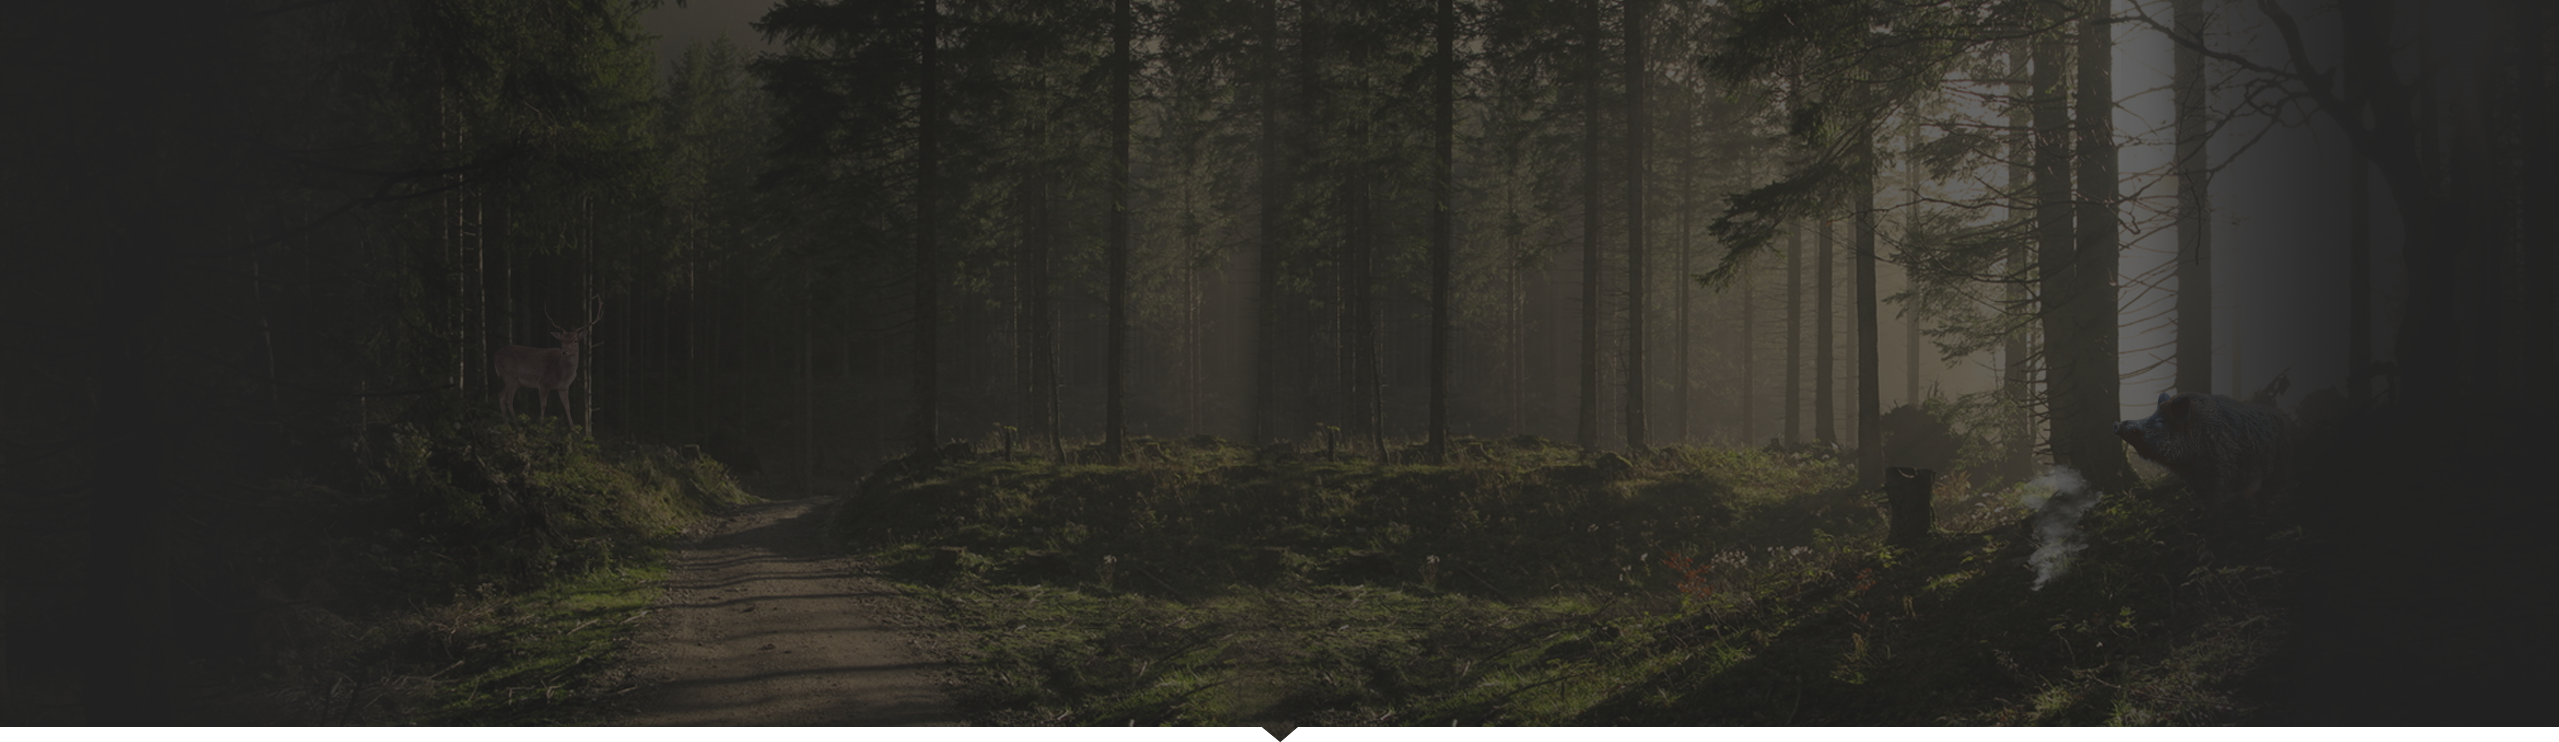
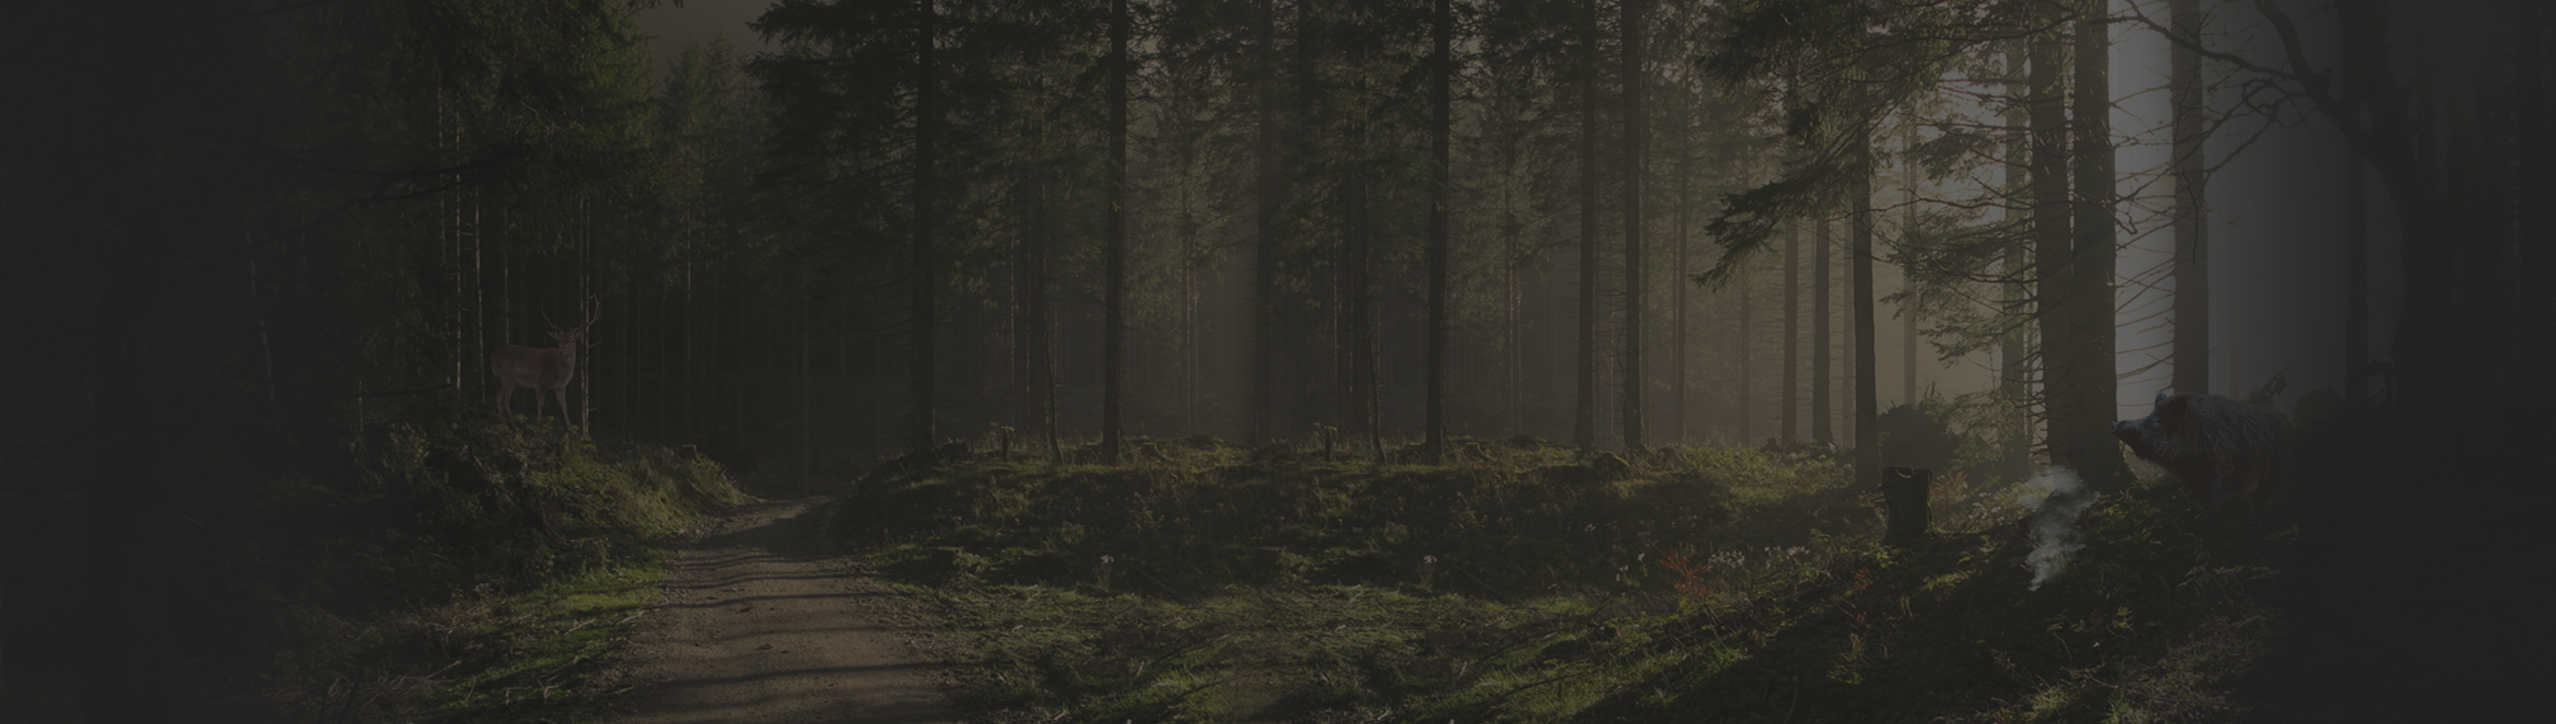
first

diff --git a/source/style/common/a__header.scss b/source/style/common/a__header.scss
@@ -1,6 +1,16 @@
 .header{
   padding: 38px 0 92px;
   background: url("../img/header_bng.png") no-repeat center / cover;
+  position: relative;
+  &:after{
+    background: url(../img/header__arrow.png) no-repeat;
+    width: 34px;
+    height: 16px;
+    content: '';
+    position: absolute;
+    bottom: -15px;
+    left: 50%;
+  }
 }
 
 .header__block{
@@ -106,16 +116,120 @@
     }
   }
 }
+@media screen and (max-width: 1348px) {
+  .form:after{
+    display: none;
+  }
+
+}
 
 @media screen and (max-width: 1190px) {
-
+  .header__block__hunter {
+    width: 351px;
+    height: 477px;
+    top: auto;
+    bottom: -42px;
+    left: -5px;
+    background-size: contain;
+  }
+  .header:after{
+    display: none;
+  }
+  .header__block .pack-block {
+    position: absolute;
+    z-index: 5;
+    left: 20px;
+    bottom: -89px;
+    width: 309px;
+  }
+  .header__block__text{
+    width: 38%;
+    margin: 0 26px 0 0;
+  }
+  .header__block .logo {
+    margin: 0 0 5px;
+  }
+  .header__block .text {
+    margin: 15px 0 17px;
+    line-height: 22px;
+  }
 }
 @media screen and (max-width: 1023px) {
-
+  //.header{
+  //   background-size: cover;
+  //   background-position: 2px 2px;
+  // }
+  .header__block__hunter {
+    display: none;
+  }
+  .header__block{
+    flex-direction: column;
+    align-items: center;
+  }
+  .header__block__text{
+    width: 100%;
+    text-align: center;
+    margin: 0 auto;
+    .text__left{
+      text-align: center;
+    }
+  }
+  .header__block__list{
+    flex-direction: row;
+    align-items: flex-start;
+    justify-content: center;
+  }
+  .header__block__list li{
+    align-items: flex-start;
+    text-align: left;
+    width: 200px;
+    margin: 0 10px;
+  }
+  .header__block__list li .check{
+    height: 30px;
+    width: 30px;
+  }
+  .header__block__list li .list__text {
+    font-size: 17px;
+    line-height: 17px;
+    margin: 0 0 0 8px;
+  }
+  .header__block__form-pack{
+    justify-content: space-around;
+    align-items: center;
+    width: 100%;
+  }
+  .header__block .pack-block{
+    position: static;
+  }
+  .header__block .pack-block{
+    width: 414px;
+  }
 }
 @media screen and (max-width: 767px) {
+  .header__block__list{
+    flex-direction: column;
+    align-items: center;
 
+  }
+  .header__block__list li{
+    align-items: center;
+    text-align: left;
+    width: 391px;
+    margin: 0 0 15px;
+  }
+  .header__block__form-pack{
+    flex-direction: column;
+  }
+  .header__block .form-block .security{
+    margin: 11px 0 0 0;
+  }
 }
-@media screen and (max-width: 639px) {
-
+@media screen and (max-width: 480px) {
+  .header__block .pack-block {
+    width: 307px;
+  }
+  .header__block__list li{
+    width: 281px;
+  }
 }

diff --git a/source/style/app.scss b/source/style/app.scss
@@ -295,49 +295,53 @@ input::-ms-clear {
 
 @media screen and (max-width: 1190px){
   .wrapper {
-    max-width: 1024px;
+    width: 100%;
     padding-right: 10px;
     padding-left: 10px;
+
+  }
+  .block {
+    padding: 60px 0;
   }
   .title {
     font-size: 36px;
-    line-height: 1.2;
   }
 }
-@media screen and (max-width: 1023px){
-  .wrapper {
-    max-width: 768px;
-  }
+
+
+@media screen and (max-width: 1169px) {
+
+}
+
+@media (max-width: 1023px){
   .title {
-    font-size: 32px;
+    font-size: 39px;
+    line-height: 39px;
+  }
+
+  .block {
+    padding: 40px 0;
   }
 }
-@media screen and (max-width: 767px){
-  .wrapper {
-    max-width: 640px;
-  }
+
+@media (max-width: 767px) {
   .title {
-    font-size: 28px;
+    font-size: 34px;
+    line-height: 34px;
+  }
+  .block {
+    padding: 30px 0;
   }
 }
-@media screen and (max-width: 639px){
-  .wrapper {
-    max-width: 480px;
-  }
+
+@media (max-width: 479px) {
   .title {
-    font-size: 24px;
+
+    font-size: 29px;
+    line-height: 29px;
   }
-}
 
-@media screen and (max-width: 1190px) {
-
-}
-@media screen and (max-width: 1023px) {
-
-}
-@media screen and (max-width: 767px) {
-
-}
-@media screen and (max-width: 639px) {
-
+  .block {
+    padding: 25px 0;
+  }
 }

diff --git a/gulp/paths/js.foundation.js b/gulp/paths/js.foundation.js
@@ -1,7 +1,7 @@
 'use strict';
 
 module.exports = [
-  /*'./bower_components/jquery/dist/jquery.min.js',
-  './bower_components/wow/dist/wow.min.js',
-  './bower_components/owl.carousel/dist/owl.carousel.min.js'*/
+  // './bower_components/jquery/dist/jquery.min.js',
+  // './bower_components/wow/dist/wow.min.js',
+  // './bower_components/owl.carousel/dist/owl.carousel.min.js'
 ];

diff --git a/source/template/common/a__header.html b/source/template/common/a__header.html
@@ -1,4 +1,4 @@
-<div class="header">
+<div class="header block">
     <div class="wrapper">
         <div class="header__block">
             <div class="header__block__hunter"></div>
